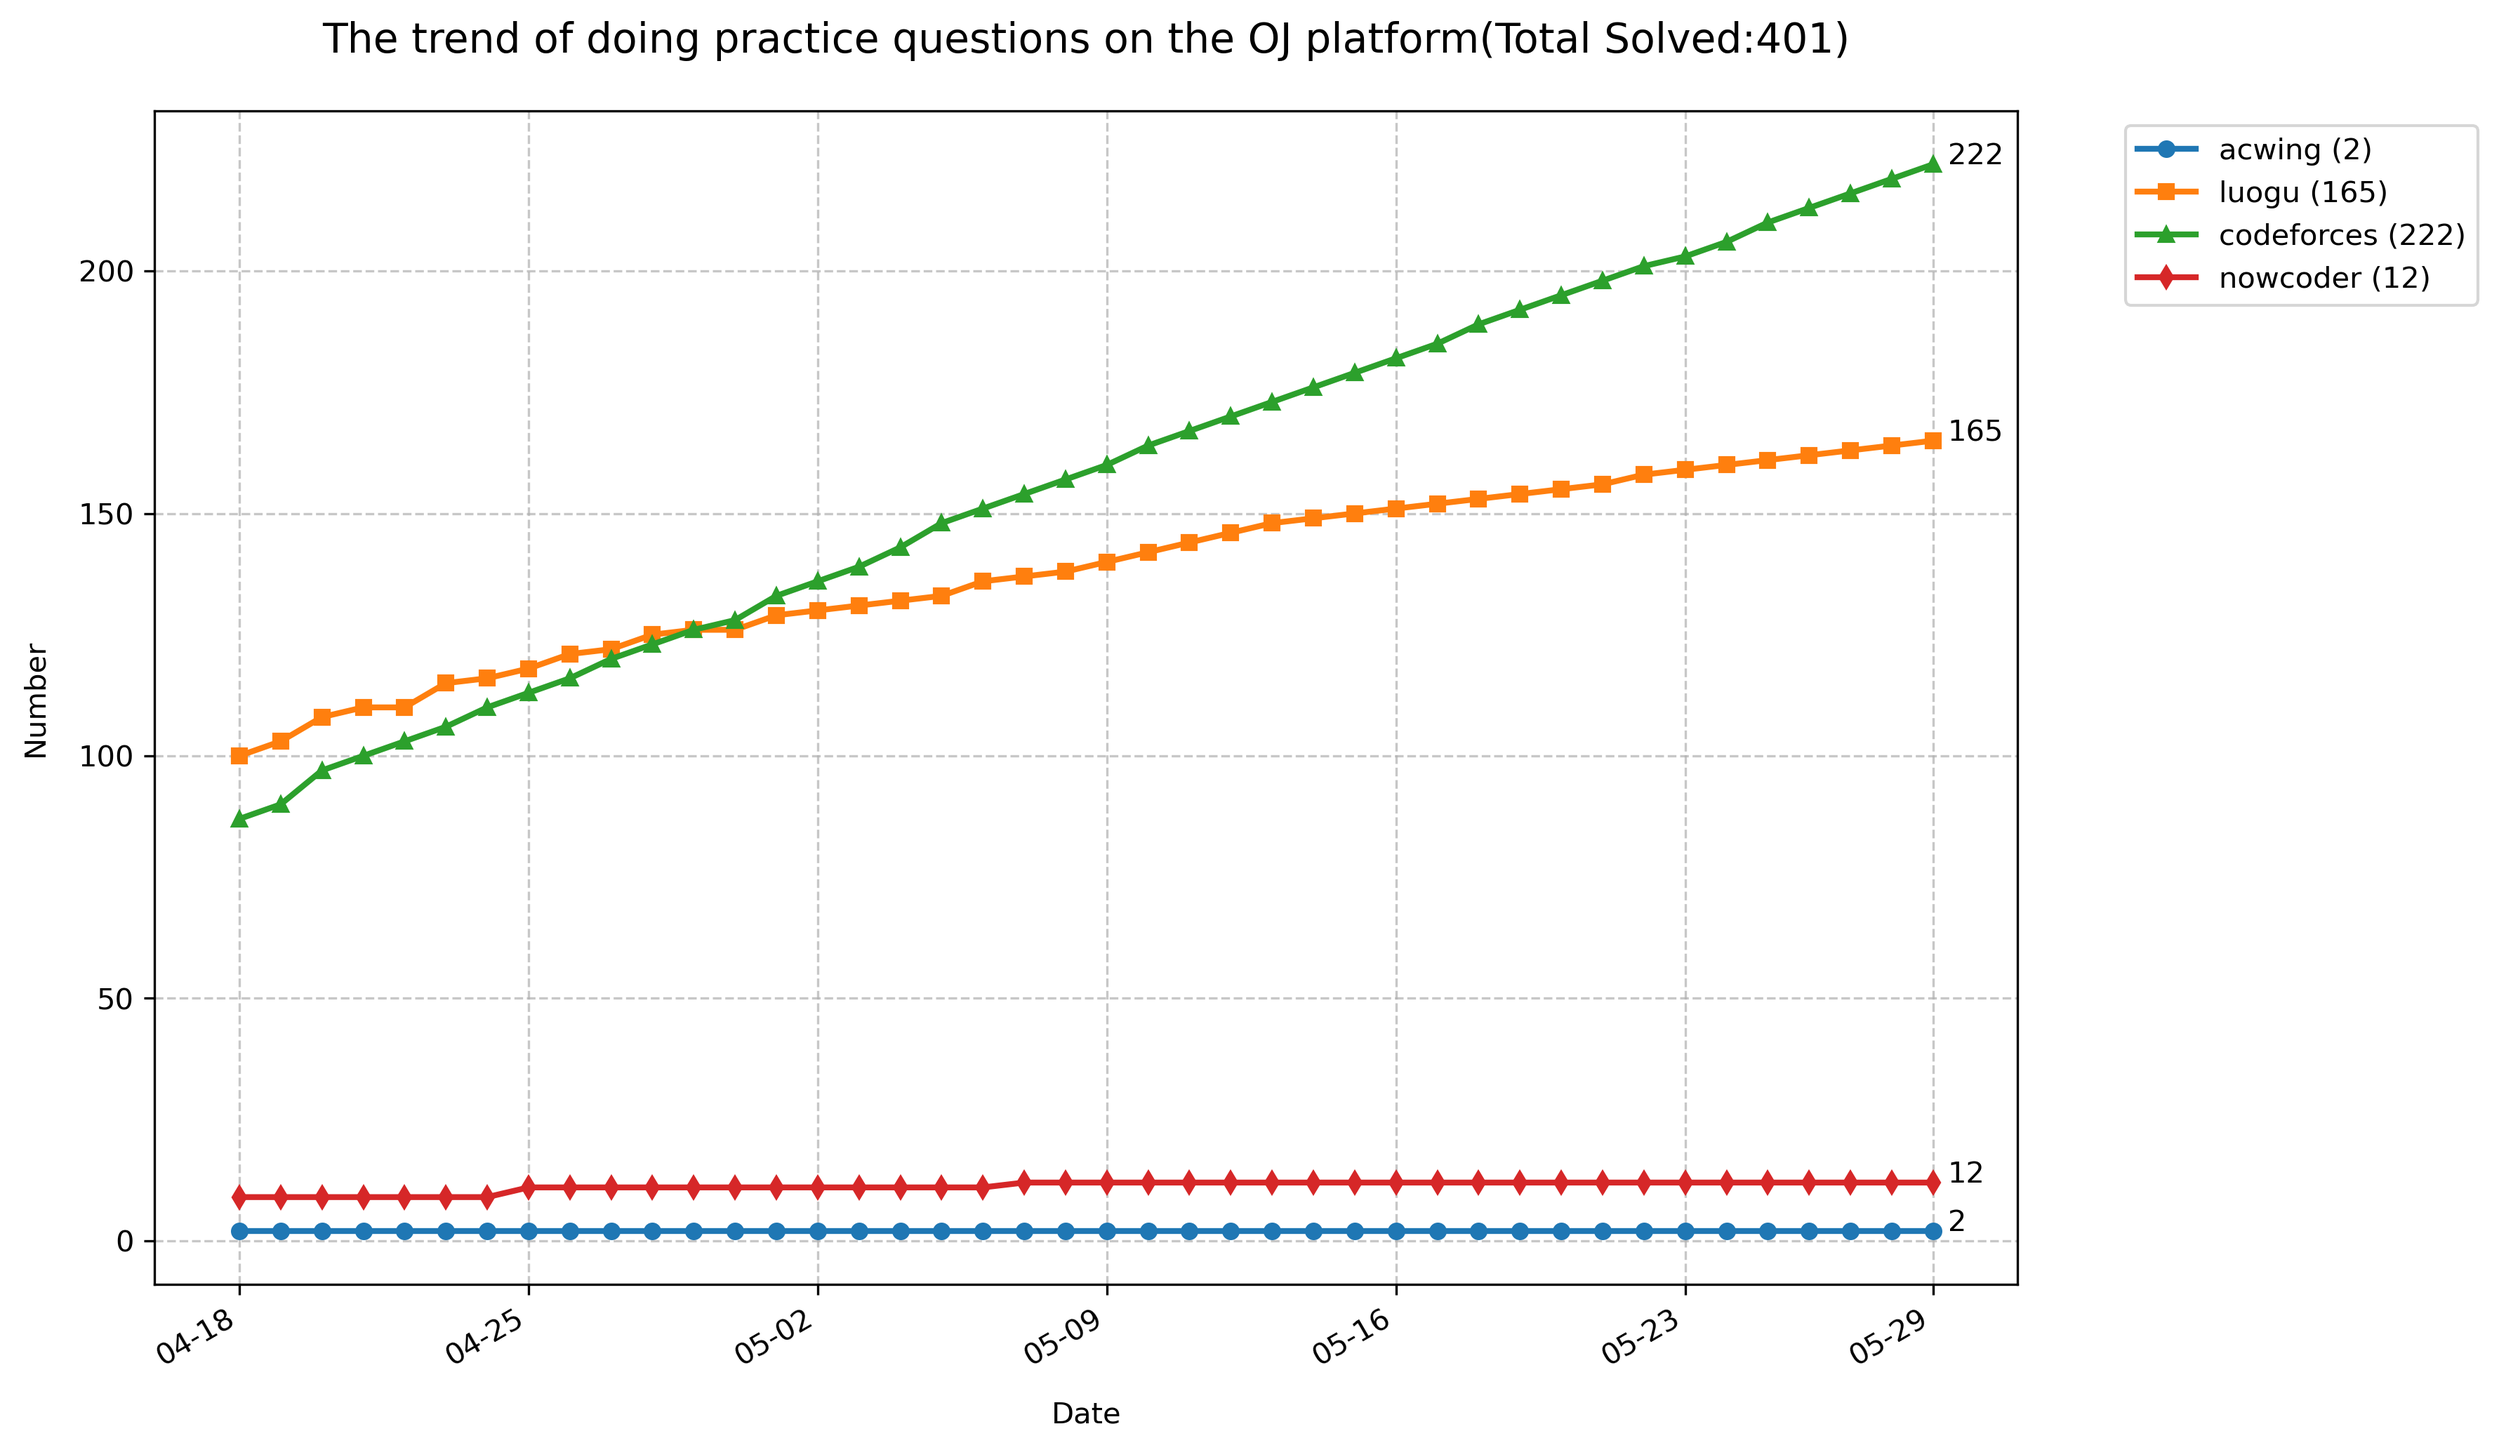
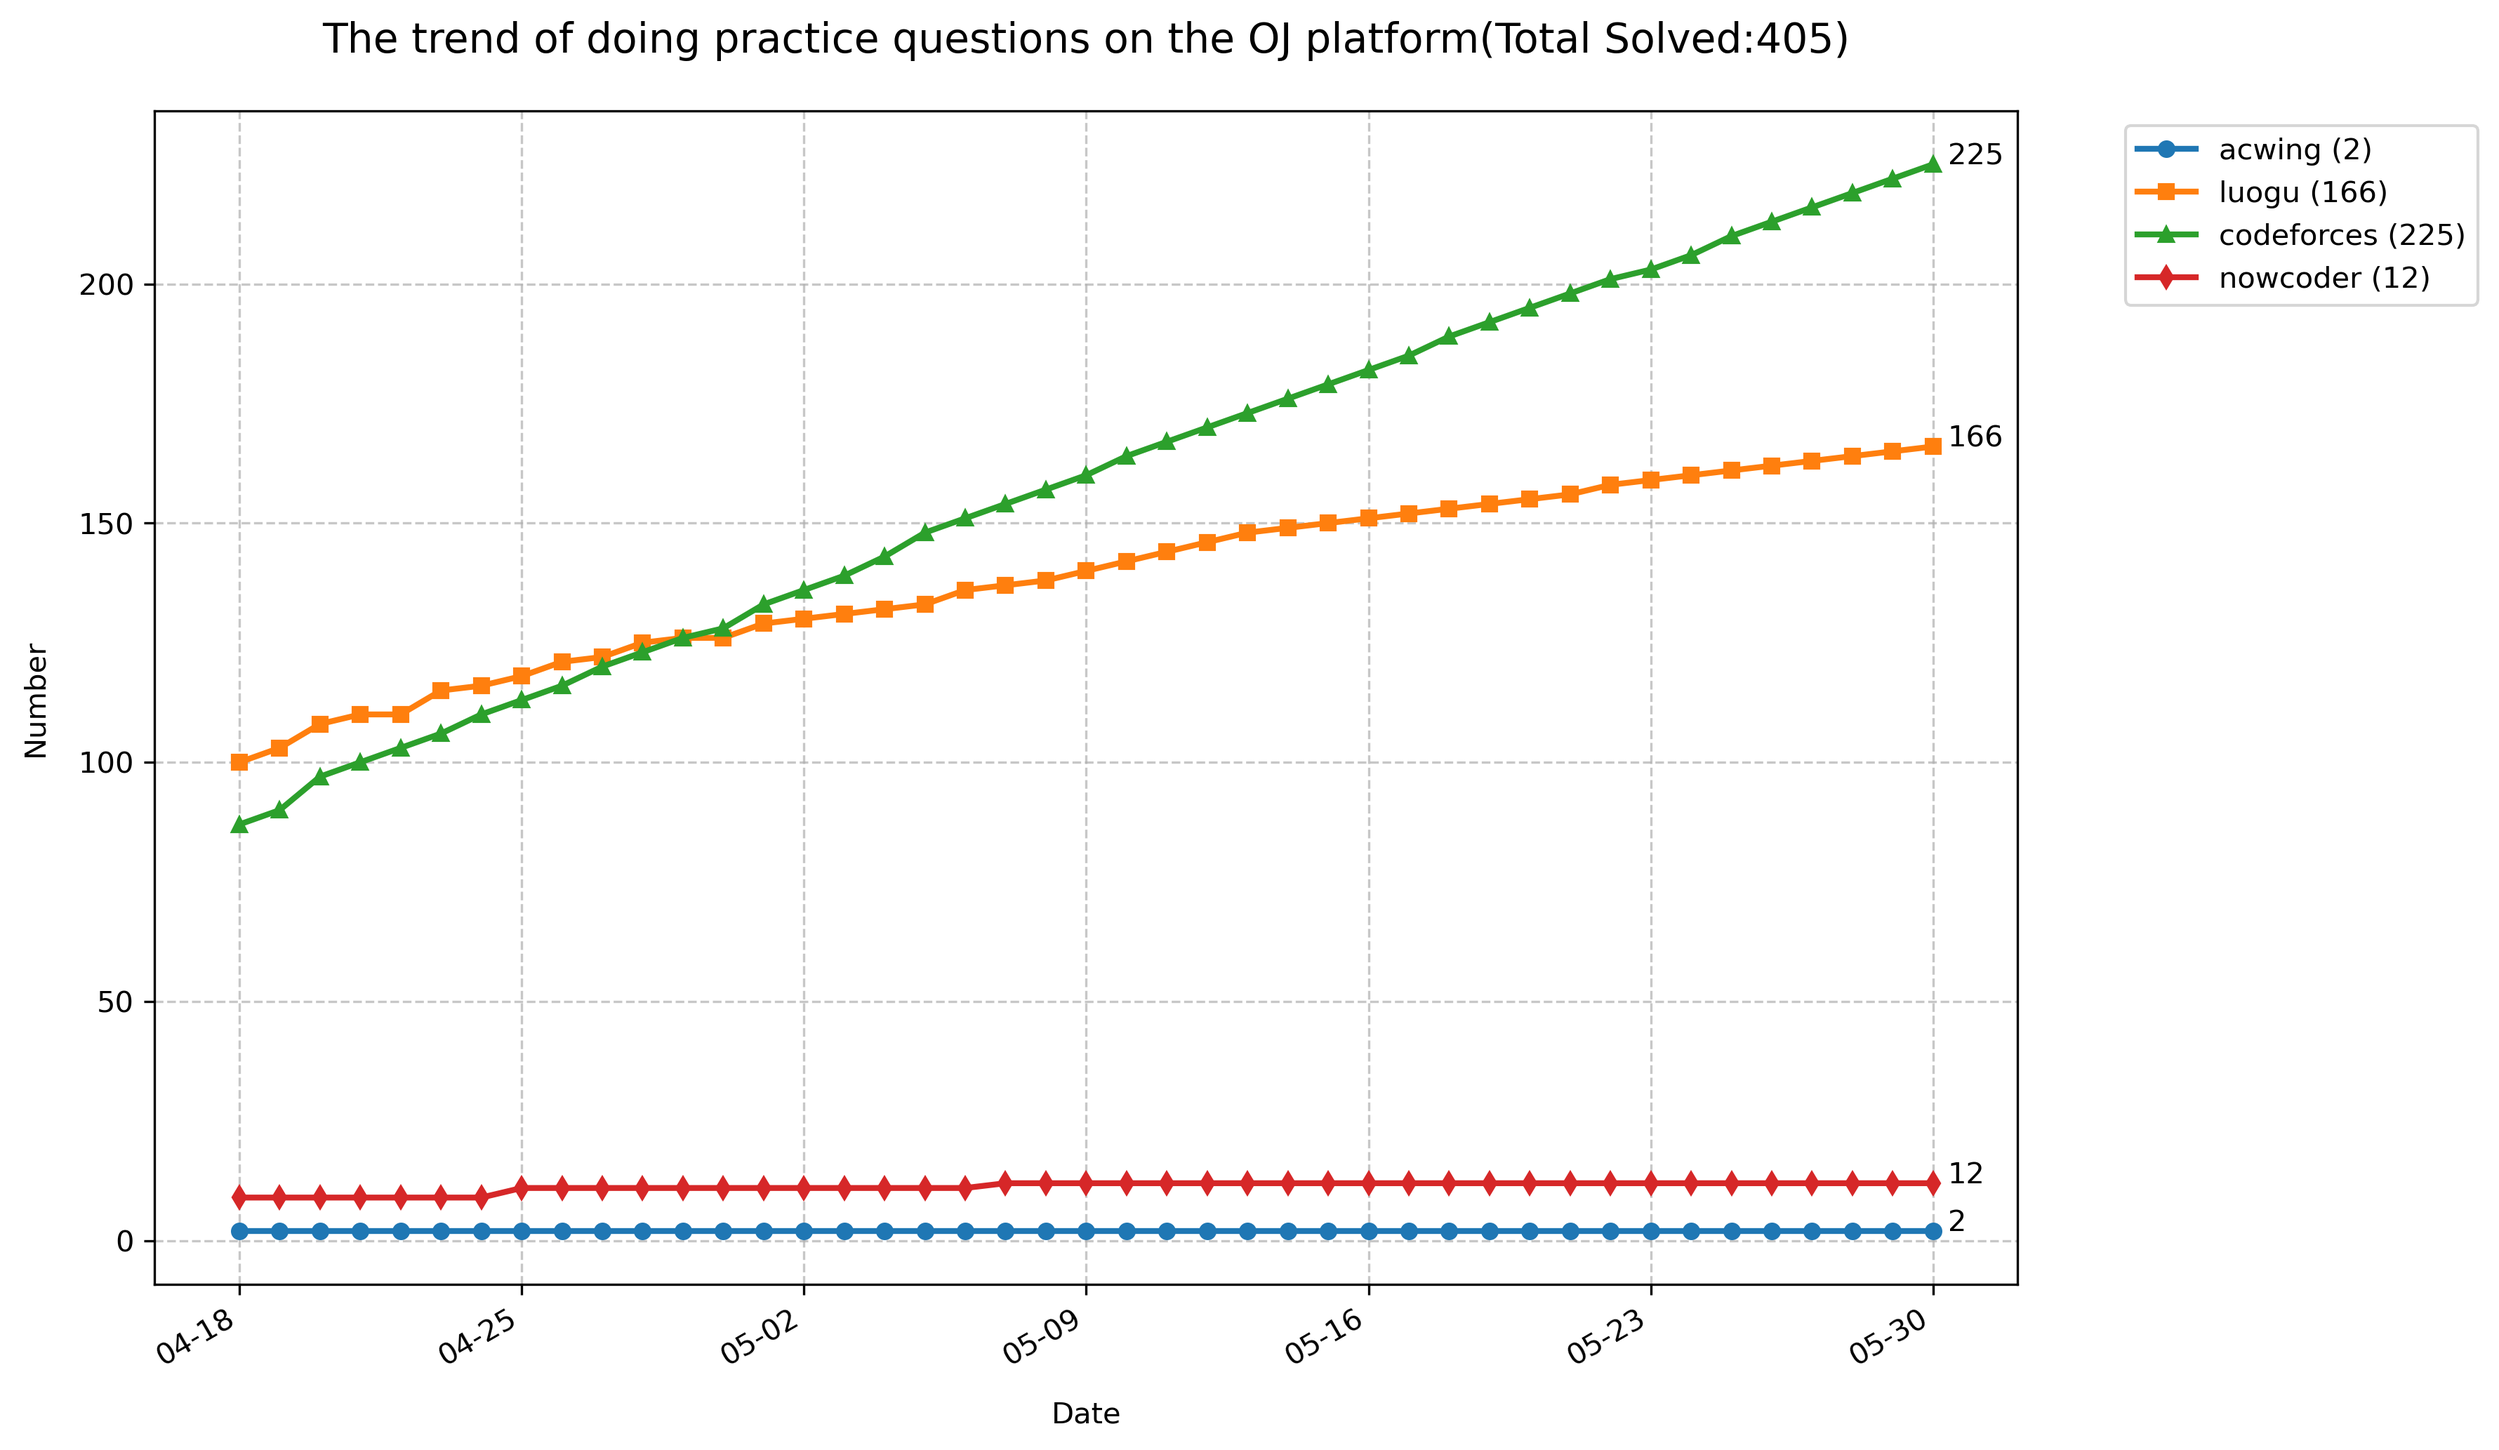
update

diff --git a/luogu/P5266/main.cpp b/luogu/P5266/main.cpp
@@ -1,0 +1,85 @@
+#include <bits/stdc++.h>
+using namespace std;
+
+
+
+#define ALL(x) (x).begin(), (x).end()
+#define MAXV(a, l, r) *std::max_element((a).begin() + (l), (a).begin() + (r))
+#define MINV(a, l, r) *std::min_element((a).begin() + (l), (a).begin() + (r))
+
+
+
+using ll = long long int;
+using ull = unsigned long long int;
+using PII = pair<int,int>;
+
+#define DEBUG
+#ifdef DEBUG
+template<typename Container>
+void PrintCon(const Container& cont) {
+    std::cout << "{ ";
+    if (!cont.empty()) {
+        auto it = cont.begin();
+        std::cout <<"\033[33m"<< *it++<< "\033[0m";
+        for (; it != cont.end(); ++it)
+            std::cout << " | " <<"\033[33m"<< *it<< "\033[0m";
+    }
+    std::cout << " }" << std::endl;
+}
+
+template<typename... Args>
+void LOG(Args&&... values) {
+    ((std::cout <<"\033[33m"<< std::forward<Args>(values) << "\033[0m"<< " "), ...);
+    std::cout << std::endl;
+}
+
+#else
+
+template<typename ...Args>
+void LOG(Args& ...args);
+template<typename Container>
+void PrintCon(const Container& cont);
+
+#endif
+
+
+int main(){
+    ios::sync_with_stdio(false);
+    cin.tie(nullptr);
+    int n;
+    cin>>n;
+    unordered_map<string,int> m;
+    while(n--){
+        int op;
+        cin>>op;
+         string name;
+        if(op == 1){
+            int num;
+            cin>>name>>num;
+            m[name] = num;
+            cout<<"OK"<<endl;
+        }else if (op == 2){
+            cin>>name;
+            if(m.find(name)!=m.end()){
+                cout<<m[name]<<endl;
+            }else{
+                cout<<"Not found"<<endl;
+            }
+        }else if(op == 3){
+            cin>>name;
+            auto it = m.find(name);
+            if(it!=m.end()){
+                m.erase(it);
+                cout<<"Deleted successfully"<<endl;
+            }else{
+                cout<<"Not found"<<endl;
+            }
+        }
+        else{
+            cout<<m.size()<<endl;
+        }
+    }
+    
+
+    return 0;
+}

diff --git a/codeforces/451B/main.cpp b/codeforces/451B/main.cpp
@@ -1,0 +1,88 @@
+#include <bits/stdc++.h>
+using namespace std;
+
+#define ALL(x) (x).begin(), (x).end()
+#define MAXV(a, l, r) *std::max_element((a).begin() + (l), (a).begin() + (r))
+#define MINV(a, l, r) *std::min_element((a).begin() + (l), (a).begin() + (r))
+
+using ll = long long int;
+using ull = unsigned long long int;
+using PII = pair<int, int>;
+
+#define DEBUG
+#ifdef DEBUG
+template <typename Container>
+void PrintCon(const Container &cont)
+{
+    std::cout << "{ ";
+    if (!cont.empty())
+    {
+        auto it = cont.begin();
+        std::cout << "\033[33m" << *it++ << "\033[0m";
+        for (; it != cont.end(); ++it)
+            std::cout << " | " << "\033[33m" << *it << "\033[0m";
+    }
+    std::cout << " }" << std::endl;
+}
+
+template <typename... Args>
+void LOG(Args &&...values)
+{
+    ((std::cout << "\033[33m" << std::forward<Args>(values) << "\033[0m" << " "), ...);
+    std::cout << std::endl;
+}
+
+#else
+
+template <typename... Args>
+void LOG(Args &...args);
+template <typename Container>
+void PrintCon(const Container &cont);
+
+#endif
+
+int main()
+{
+    ios::sync_with_stdio(false);
+    cin.tie(nullptr);
+    int n;
+    cin >> n;
+    vector<ll> a(n), b(n);
+    for (int i = 0; i < n; i++)
+    {
+        cin >> a[i];
+        b[i] = a[i];
+    }
+    sort(ALL(b));
+    int l = 0, r = n - 1;
+    while (a[l] == b[l] && l <= n - 1)
+    {
+        l++;
+    }
+    while (a[r] == b[r] && r >= 0)
+    {
+        r--;
+    }
+    if (l >= r)
+    {
+        cout << "yes" << endl;
+        cout << "1 1" << endl;
+        return 0;
+    }
+    for (int i = l, j = r; i <= r; i++, j--)
+    {
+        b[i] = a[j];
+    }
+    for (int i = 0; i < n - 1; i++)
+    {
+        if (b[i] > b[i + 1])
+        {
+            cout << "no";
+            return 0;
+        }
+    }
+    cout << "yes" << endl;
+    cout << l + 1 << " " << r + 1<<endl;
+
+    return 0;
+}

diff --git a/codeforces/1399B/main.cpp b/codeforces/1399B/main.cpp
@@ -1,0 +1,70 @@
+#include <bits/stdc++.h>
+using namespace std;
+
+#define ALL(x) (x).begin(), (x).end()
+#define MAXV(a, l, r) *std::max_element((a).begin() + (l), (a).begin() + (r))
+#define MINV(a, l, r) *std::min_element((a).begin() + (l), (a).begin() + (r))
+
+using ll = long long int;
+using ull = unsigned long long int;
+using PII = pair<int, int>;
+
+#define DEBUG
+
+#ifdef DEBUG
+template <typename Container>
+void PrintCon(const Container &cont)
+{
+    std::cout << "{ ";
+    if (!cont.empty())
+    {
+        auto it = cont.begin();
+        std::cout << "\033[33m" << *it++ << "\033[0m";
+        for (; it != cont.end(); ++it)
+            std::cout << " | " << "\033[33m" << *it << "\033[0m";
+    }
+    std::cout << " }" << std::endl;
+}
+
+template <typename... Args>
+void LOG(Args &&...values)
+{
+    ((std::cout << "\033[33m" << std::forward<Args>(values) << "\033[0m" << " "), ...);
+    std::cout << std::endl;
+}
+#else
+template <typename... Args>
+void LOG(Args &...args);
+
+template <typename Container>
+void PrintCon(const Container &cont);
+#endif
+void solve()
+{
+    int n;
+		cin >> n;
+		vector<int> a(n), b(n);
+		for (auto &it : a) cin >> it;
+		for (auto &it : b) cin >> it;
+		int mna = *min_element(a.begin(), a.end());
+		int mnb = *min_element(b.begin(), b.end());
+		long long ans = 0;
+		for (int i = 0; i < n; ++i) {
+			ans += max(a[i] - mna, b[i] - mnb);
+		}
+		cout << ans << endl;
+}
+
+int main()
+{
+    ios::sync_with_stdio(false);
+    cin.tie(nullptr);
+    int t;
+    cin >> t;
+    while (t--)
+    {
+        solve();
+    }
+
+    return 0;
+}

diff --git a/codeforces/1369A/main.cpp b/codeforces/1369A/main.cpp
@@ -1,0 +1,59 @@
+#include <bits/stdc++.h>
+using namespace std;
+
+
+#define ALL(x) (x).begin(), (x).end()
+#define MAXV(a, l, r) *std::max_element((a).begin() + (l), (a).begin() + (r))
+#define MINV(a, l, r) *std::min_element((a).begin() + (l), (a).begin() + (r))
+
+
+using ll = long long int;
+using ull = unsigned long long int;
+using PII = pair<int,int>;
+
+#define DEBUG
+
+#ifdef DEBUG
+template<typename Container>
+void PrintCon(const Container& cont) {
+    std::cout << "{ ";
+    if (!cont.empty()) {
+        auto it = cont.begin();
+        std::cout <<"\033[33m"<< *it++<< "\033[0m";
+        for (; it != cont.end(); ++it)
+            std::cout << " | " <<"\033[33m"<< *it<< "\033[0m";
+    }
+    std::cout << " }" << std::endl;
+}
+
+template<typename... Args>
+void LOG(Args&&... values) {
+    ((std::cout <<"\033[33m"<< std::forward<Args>(values) << "\033[0m"<< " "), ...);
+    std::cout << std::endl;
+}
+#else
+template<typename ...Args>
+void LOG(Args& ...args);
+    
+template<typename Container>
+void PrintCon(const Container& cont);
+#endif
+
+
+void solve(){
+    ll n;
+    cin>>n;
+    cout<<(n%4==0?"YES":"NO")<<endl;
+}
+
+int main(){
+    ios::sync_with_stdio(false);
+    cin.tie(nullptr);
+    int t;
+    cin>>t;
+    while(t--){
+        solve();
+    }
+
+    return 0;
+}
